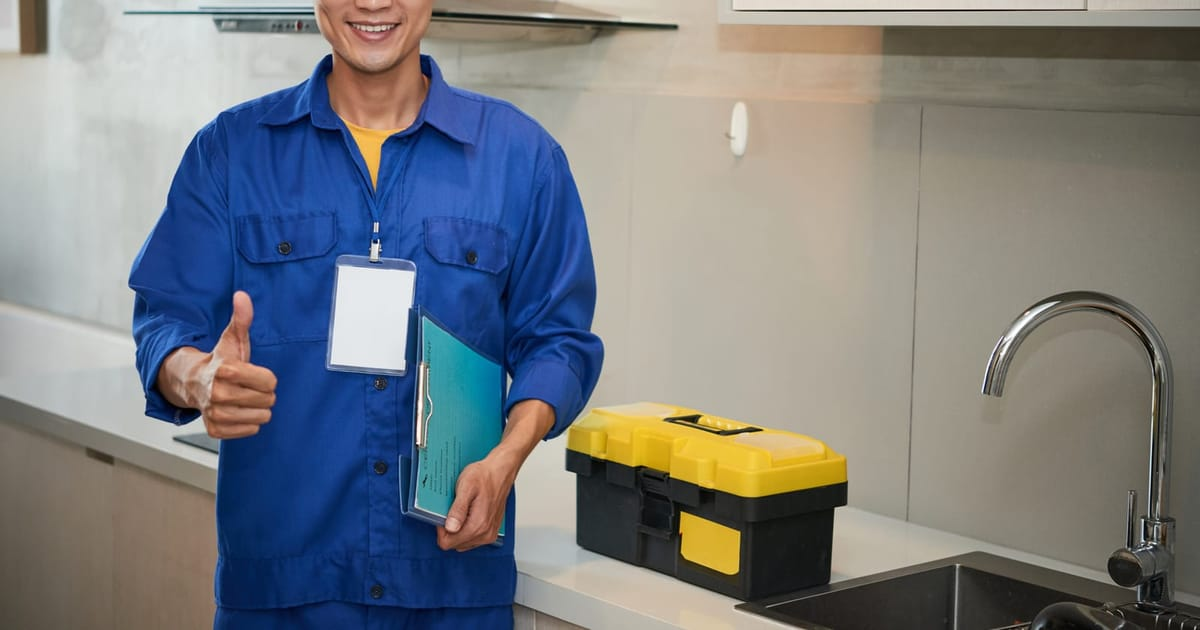
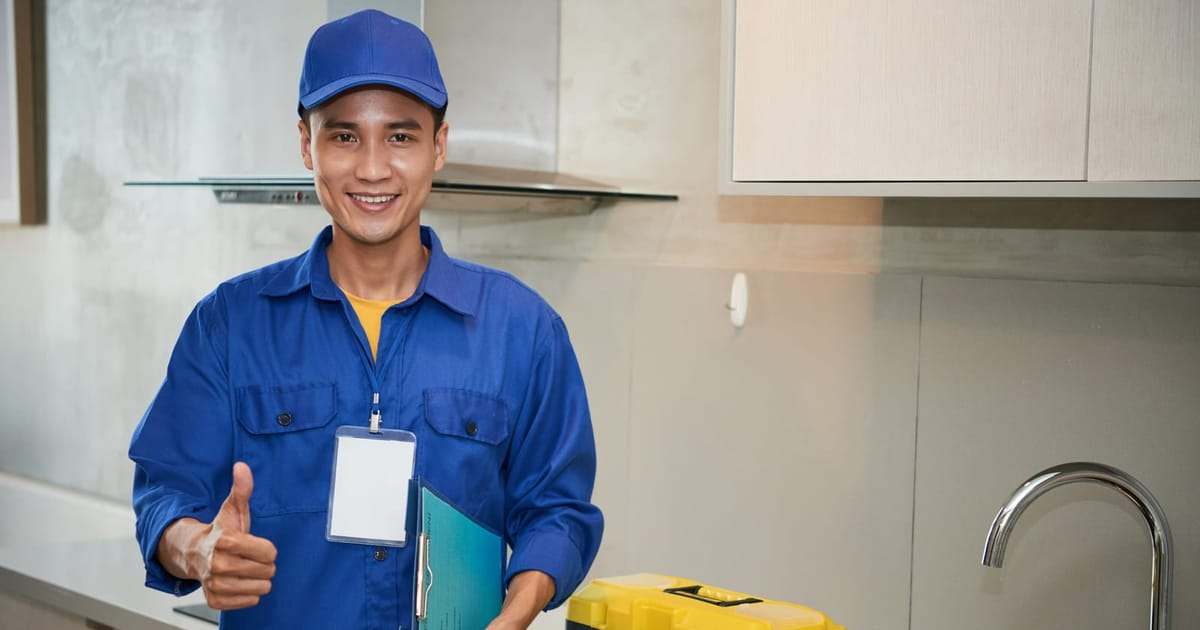
feat(seo): use domain-free default OG images and fix an article crop
The default share images no longer print lapdattoanquoc.vn (v2 file
names bust Facebook/Zalo caches); the digital transformation article
image is cropped from the top so the technician's face shows.

diff --git a/content/redirects.ts b/content/redirects.ts
@@ -175,7 +175,7 @@ export type LegacyAssetRow = {
 export const legacyAssets: readonly LegacyAssetRow[] = [
   {
     from: '/images/og-cover.jpg',
-    to: '/images/og/bluebolt-services-vi.jpg',
+    to: '/images/og/bluebolt-services-vi-v2.jpg',
     kind: 'redirect',
     note: 'og:image cũ của 18 trang. Ảnh là banner khóa học "Đào tạo chuyển đổi số AI" của đơn vị khác, hotline khác → KHÔNG giữ; 301 sang ảnh OG mới',
   },
@@ -187,7 +187,7 @@ export const legacyAssets: readonly LegacyAssetRow[] = [
   },
   {
     from: '/images/news/lap-dat-may-lanh-7-buoc.jpg',
-    to: '/images/og/bluebolt-services-vi.jpg',
+    to: '/images/og/bluebolt-services-vi-v2.jpg',
     kind: 'redirect',
     note:
       'og:image bài lap-dat-may-lanh-dung-cach-7-buoc (VI + EN). Ảnh AI (dấu ✦ Gemini, thợ mặc áo in "BLUEBOLT" giả) → ' +
@@ -241,7 +241,7 @@ export const legacyAssets: readonly LegacyAssetRow[] = [
   },
   {
     from: '/images/khang-3d-poster.webp',
-    to: '/images/og/bluebolt-services-vi.jpg',
+    to: '/images/og/bluebolt-services-vi-v2.jpg',
     kind: 'redirect',
     note:
       'Ảnh KHANG (quyền chưa xác nhận, D-03) — không phục vụ file cũ; 301 sang ảnh OG mặc định (không KHANG) vì AC-301-3 ' +

diff --git a/content/seo.ts b/content/seo.ts
@@ -316,13 +316,13 @@ export type SeoPageKey = keyof typeof SEO_PAGES;
  */
 export const DEFAULT_OG_IMAGE = {
   vi: {
-    src: '/images/og/bluebolt-services-vi.jpg',
+    src: '/images/og/bluebolt-services-vi-v2.jpg',
     width: 1200,
     height: 630,
     alt: 'Bluebolt Services — lắp đặt điện máy cho hãng và sàn thương mại điện tử',
   },
   en: {
-    src: '/images/og/bluebolt-services-en.jpg',
+    src: '/images/og/bluebolt-services-en-v2.jpg',
     width: 1200,
     height: 630,
     alt: 'Bluebolt Services — appliance installation for brands and marketplaces',
